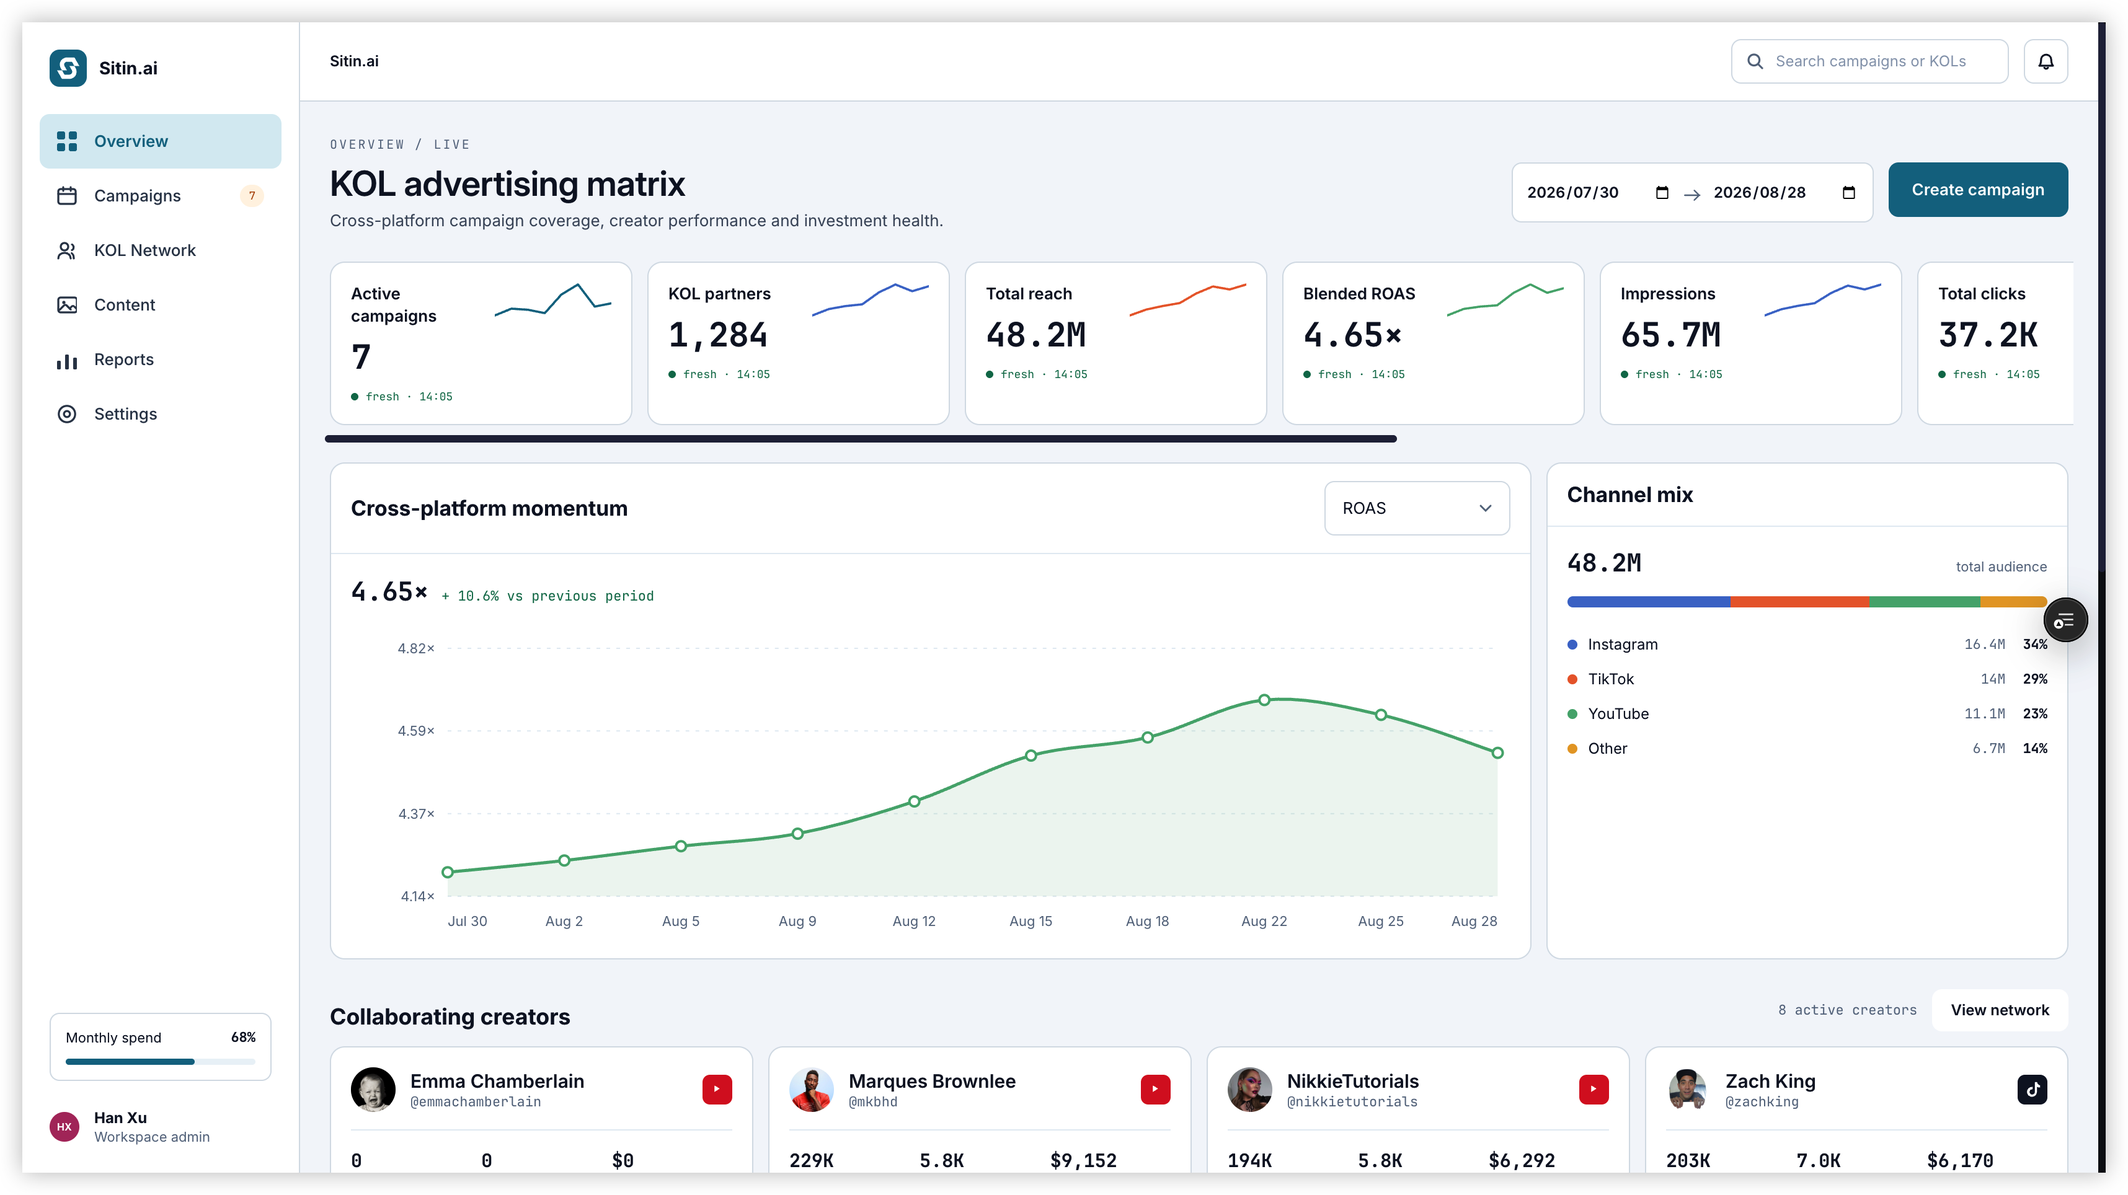
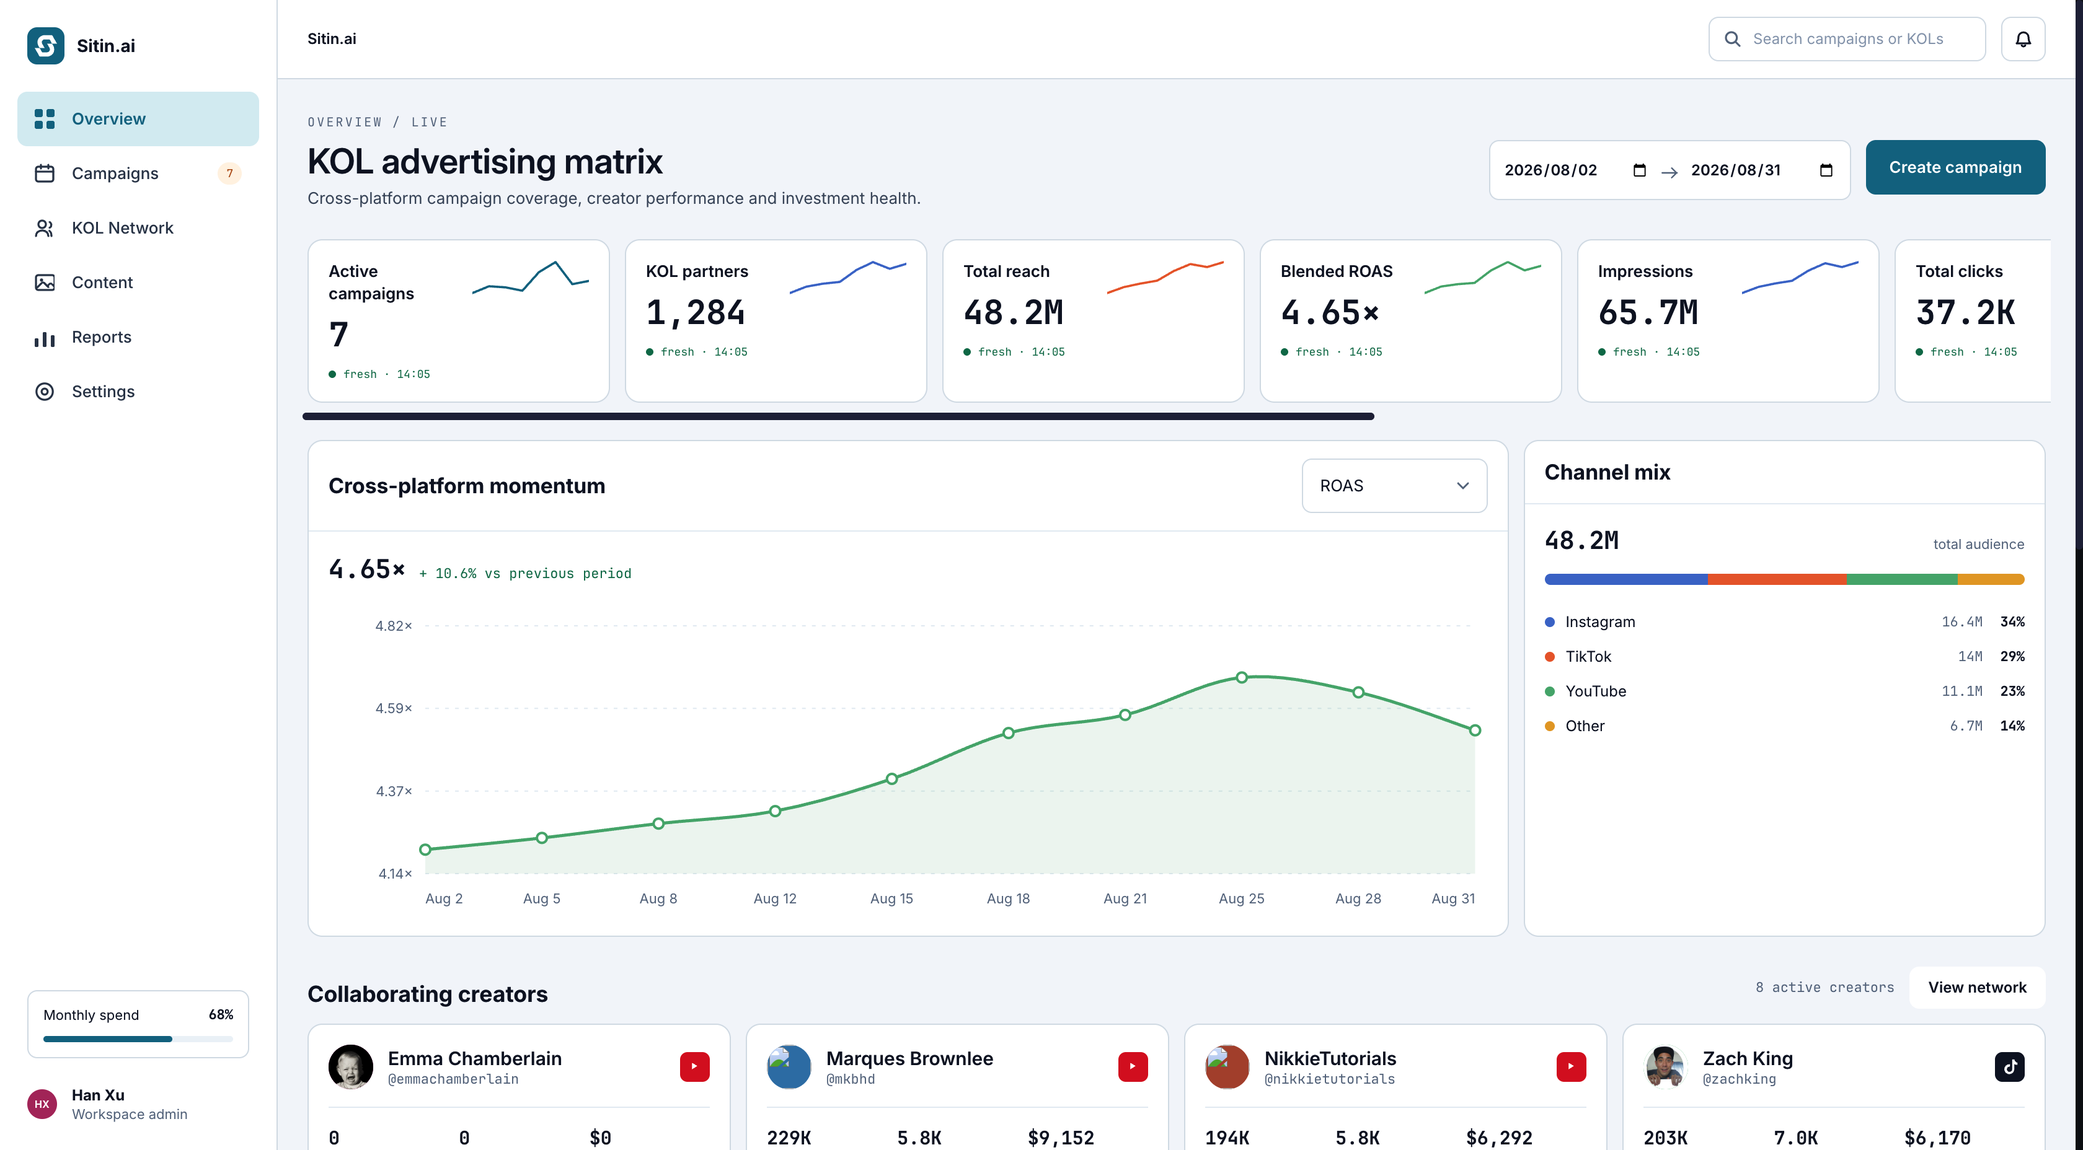
Update creator screens and full-height sections

diff --git a/index.html b/index.html
@@ -58,14 +58,19 @@
     @media (max-width:760px){.topbar{width:calc(100% - 40px)}.hero{height:100svh;height:100dvh;min-height:600px;padding-top:120px}.hero-video{object-position:center center}}
     @media (prefers-reduced-motion:reduce){html{scroll-behavior:auto}.hero-video{display:none}.hero{background:#eef3f1}}
     /* Product ecosystem showcase: one shared visual for the mobile and business surfaces. */
-    .ecosystem-showcase{display:grid;grid-template-columns:minmax(0,1.2fr) minmax(360px,.8fr);gap:76px;align-items:center;margin-top:58px}
-    .ecosystem-visual{display:grid;grid-template-columns:minmax(0,1fr) minmax(158px,.28fr);gap:20px;align-items:end;min-height:0;position:relative}
-    .dashboard-frame{position:relative;min-width:0;overflow:hidden;background:transparent;border:1px solid var(--line);border-radius:8px;box-shadow:0 18px 34px rgba(15,23,42,.14);z-index:1}
-    .dashboard-frame img{display:block;width:100%;height:auto}
-    .mobile-frame{position:relative;min-width:0;width:100%;padding:0;overflow:hidden;background:transparent;border:1px solid var(--line);border-radius:8px;box-shadow:0 18px 34px rgba(15,23,42,.14);z-index:1}
-    .mobile-frame:before{display:none}
-    .mobile-frame img{display:block;width:100%;height:auto;border-radius:7px}
-    .ecosystem-copy{align-self:stretch;display:flex;flex-direction:column;justify-content:center}
+    #ecosystem{min-height:100svh;min-height:100dvh;display:flex;align-items:stretch;padding:0}
+    #ecosystem>.shell{width:100%;max-width:none}
+    .ecosystem-showcase{display:grid;grid-template-columns:50vw 50vw;gap:0;align-items:stretch;width:100%;min-height:100svh;min-height:100dvh;margin-top:0}
+    .ecosystem-visual{position:relative;display:flex;align-items:center;justify-content:center;gap:clamp(12px,1.8vw,24px);min-height:0;height:100%;padding:24px;overflow:visible}
+    .dashboard-frame{position:relative;flex:1 1 auto;width:auto;min-width:0;max-width:500px;aspect-ratio:1.65;overflow:visible;background:#e8eef2;border:1px solid #cbd7df;border-radius:11px;padding:25px 7px 7px;box-shadow:0 18px 34px rgba(15,23,42,.16);z-index:1}
+    .dashboard-frame:before{content:"";position:absolute;left:12px;top:10px;width:6px;height:6px;border-radius:50%;background:#9eacb8;box-shadow:12px 0 0 #b4c0c9,24px 0 0 #c5cfd6}
+    .dashboard-frame:after{content:"";position:absolute;left:50%;bottom:-18px;width:88px;height:18px;transform:translateX(-50%);background:#c5d0d8;border-radius:0 0 8px 8px;box-shadow:0 5px 0 -1px #b8c5ce;z-index:-1}
+    .dashboard-frame img{position:relative;display:block;width:100%;height:auto;transform:none;opacity:.7;border-radius:4px}
+    .mobile-frame{position:relative;flex:0 0 clamp(145px,14vw,220px);width:auto;height:auto;aspect-ratio:1170/2532;padding:7px;overflow:visible;background:#0f172a;border:6px solid #0f172a;border-radius:25px;box-shadow:0 22px 42px rgba(15,23,42,.24);z-index:2}
+    .mobile-frame:before{content:"";position:absolute;left:50%;top:-1px;width:38%;height:13px;transform:translateX(-50%);border-radius:0 0 9px 9px;background:#0f172a;z-index:2}
+    .mobile-frame:after{content:"";position:absolute;right:-10px;top:24%;width:4px;height:44px;border-radius:0 4px 4px 0;background:#0f172a}
+    .mobile-frame img{display:block;width:100%;height:100%;border-radius:16px}
+    .ecosystem-copy{align-self:stretch;display:flex;flex-direction:column;justify-content:center;padding:clamp(48px,8vw,112px)}
     .ecosystem-copy h2{max-width:530px}
     .ecosystem-copy .section-lead{max-width:470px}
     .product-stack{margin-top:31px;border-top:1px solid var(--line)}
@@ -73,8 +78,25 @@
     .product-row .row-num{font-family:var(--mono);font-size:10px;color:var(--acid-dark);padding-top:4px}
     .product-row h3{margin:0;font-size:17px;line-height:1.2;letter-spacing:0;font-weight:750}
     .product-row p{margin:7px 0 0;color:var(--muted);font-size:12px;line-height:1.52}
-    @media (max-width:1100px){.ecosystem-showcase{gap:44px;grid-template-columns:minmax(0,1.08fr) minmax(320px,.92fr)}.ecosystem-visual{grid-template-columns:minmax(0,1fr) minmax(135px,.28fr);gap:14px}.dashboard-frame,.mobile-frame{border-radius:8px}.mobile-frame img{border-radius:7px}}
-    @media (max-width:760px){.ecosystem-showcase{grid-template-columns:1fr;gap:42px;margin-top:39px}.ecosystem-visual{grid-template-columns:minmax(0,1fr) minmax(105px,.31fr);gap:10px}.dashboard-frame,.mobile-frame{border-radius:8px}.mobile-frame img{border-radius:7px}.product-stack{margin-top:26px}.product-row{grid-template-columns:33px 1fr;gap:12px;padding:16px 0}.product-row h3{font-size:16px}.product-row p{font-size:12px}}
+    #sitin{min-height:100svh;min-height:100dvh;display:flex;align-items:center;padding-top:clamp(64px,8vh,96px);padding-bottom:clamp(64px,8vh,96px)}
+    #sitin .product-section{grid-template-columns:.72fr 1.28fr;gap:70px}
+    .identity-feature{display:flex;align-items:center;justify-content:center;gap:clamp(14px,2vw,26px);height:clamp(460px,76vh,600px);background:transparent;overflow:visible}
+    .identity-phone{position:relative;height:100%;aspect-ratio:1170/2532;padding:7px;background:#0f172a;border:6px solid #0f172a;border-radius:27px;box-shadow:0 22px 42px rgba(15,23,42,.18);overflow:visible}
+    .identity-phone:before{content:"";position:absolute;left:50%;top:-1px;width:38%;height:13px;transform:translateX(-50%);border-radius:0 0 9px 9px;background:#0f172a;z-index:2}
+    .identity-phone:after{content:"";position:absolute;right:-10px;top:24%;width:4px;height:44px;border-radius:0 4px 4px 0;background:#0f172a}
+    .identity-phone img{display:block;width:100%;height:100%;border-radius:16px}
+    @media (max-width:1100px){#ecosystem{min-height:100svh;min-height:100dvh}.ecosystem-showcase{grid-template-columns:50vw 50vw;min-height:100svh;min-height:100dvh}.ecosystem-visual{gap:12px;padding:20px}.ecosystem-copy{padding:clamp(38px,6vw,78px)}.mobile-frame{flex-basis:clamp(130px,15vw,190px)}#sitin{padding-top:78px;padding-bottom:78px}#sitin .product-section{grid-template-columns:.72fr 1.28fr;gap:45px}.identity-feature{height:clamp(420px,64vh,520px)}}
+    @media (max-width:760px){#ecosystem{min-height:0;display:block;padding:0}.ecosystem-showcase{grid-template-columns:1fr;gap:0;min-height:0}.ecosystem-visual{height:clamp(360px,100vw,520px);gap:12px;padding:20px}.ecosystem-copy{padding:78px 20px}.mobile-frame{flex-basis:31%;max-width:180px;border-radius:22px}.mobile-frame img{border-radius:14px}.product-stack{margin-top:26px}.product-row{grid-template-columns:33px 1fr;gap:12px;padding:16px 0}.product-row h3{font-size:16px}.product-row p{font-size:12px}#sitin{min-height:0;display:block;padding-top:78px;padding-bottom:78px}#sitin .product-section{grid-template-columns:1fr;gap:34px}.identity-feature{order:2;height:auto;display:grid;grid-template-columns:1fr 1fr;align-items:start;gap:12px}.identity-phone{height:auto;width:100%;padding:5px;border-width:5px;border-radius:21px}.identity-phone:before{height:9px}.identity-phone:after{right:-8px;width:3px;height:32px}.identity-phone img{border-radius:13px}}
+    /* Creator proof screens: show the earning flow at full viewport height. */
+    #creator{min-height:100svh;min-height:100dvh;display:flex;align-items:center;padding-top:clamp(64px,8vh,96px);padding-bottom:clamp(64px,8vh,96px)}
+    #creator .product-section{width:100%;grid-template-columns:1.17fr .83fr;gap:70px}
+    .creator-feature{display:flex;align-items:center;justify-content:center;gap:clamp(14px,2vw,26px);height:clamp(460px,76vh,600px);background:transparent;overflow:visible}
+    .creator-phone{position:relative;height:100%;aspect-ratio:1170/2532;padding:7px;background:#0f172a;border:6px solid #0f172a;border-radius:27px;box-shadow:0 22px 42px rgba(15,23,42,.18);overflow:visible}
+    .creator-phone:before{content:"";position:absolute;left:50%;top:-1px;width:38%;height:13px;transform:translateX(-50%);border-radius:0 0 9px 9px;background:#0f172a;z-index:2}
+    .creator-phone:after{content:"";position:absolute;right:-10px;top:24%;width:4px;height:44px;border-radius:0 4px 4px 0;background:#0f172a}
+    .creator-phone img{display:block;width:100%;height:100%;border-radius:16px}
+    @media (max-width:1100px){#creator{padding-top:78px;padding-bottom:78px}#creator .product-section{grid-template-columns:1.17fr .83fr;gap:45px}.creator-feature{height:clamp(420px,64vh,520px)}}
+    @media (max-width:760px){#creator{min-height:0;display:block;padding-top:78px;padding-bottom:78px}#creator .product-section{grid-template-columns:1fr;gap:34px}#creator .product-copy{order:1}#creator .creator-feature{order:2;height:auto;display:grid;grid-template-columns:1fr 1fr;align-items:start;gap:12px}.creator-phone{height:auto;width:100%;padding:5px;border-width:5px;border-radius:21px}.creator-phone:before{height:9px}.creator-phone:after{right:-8px;width:3px;height:32px}.creator-phone img{border-radius:13px}}
     /* Brand-first hero: let the footage carry the visual story and keep the copy crisp. */
     .hero{height:100svh;height:100dvh;min-height:600px;background:#05070a}
     .hero-video-overlay{background:rgba(0,0,0,.7)}
@@ -100,9 +122,9 @@
     <main id="top">
       <section class="hero"><video class="hero-video" autoplay muted loop playsinline preload="metadata" poster="hero-video-poster.png" aria-hidden="true"><source src="hero-video.mp4" type="video/mp4"></video><div class="hero-video-overlay" aria-hidden="true"></div><div class="hero-content shell"><div class="eyebrow">Creator ads, without the busywork</div><h1>Click To Start <strong>Creator Growth</strong></h1><p class="hero-copy">Sitin.ai turns creator discovery, permissions, publishing and payouts into one simple flow.</p><div class="actions"><a class="button primary" href="#business">Start a campaign <span>↗</span></a><a class="button secondary" href="#creator">Monetize your audience</a></div></div></section>
       <section class="section ecosystem" id="ecosystem"><div class="shell"><div class="ecosystem-showcase"><div class="ecosystem-visual" aria-label="Sitin.ai mobile app and Sitin.ai Business dashboard"><div class="dashboard-frame"><img src="sitin-ai-business-dashboard-source.png" alt="Sitin.ai Business KOL advertising matrix dashboard"></div><div class="mobile-frame"><img src="sitin-ai-mobile-app.png" alt="Sitin.ai mobile app social account connection and earning screen"></div></div><div class="ecosystem-copy"><h2>Three products.<br>One growth loop.</h2><p class="section-lead">Every signal has a next step: connect the right account, match the right opportunity and move the right campaign forward.</p><div class="product-stack" id="products"><article class="product-row"><span class="row-num">01</span><div><h3>Sitin.ai</h3><p>The social identity layer. Dating users choose to connect their social accounts and turn real signals into commercial opportunity.</p></div></article><article class="product-row"><span class="row-num">02</span><div><h3>Sitin.ai Creator</h3><p>For creators beyond Dating. Connect the accounts you choose, discover matched deals and control how work gets published.</p></div></article><article class="product-row"><span class="row-num">03</span><div><h3>Sitin.ai Business</h3><p>For brands. Turn a brief into matched creators, live campaigns and measurable growth at scale.</p></div></article></div></div></div></div></section>
-      <section class="section" id="sitin"><div class="shell product-section"><div class="product-copy"><div class="section-kicker">01 / Sitin.ai</div><h2>Where consented social identity begins.</h2><p class="section-lead">Sitin.ai is a Dating product where people build real connections and can choose to connect their social accounts. Their control stays visible at every step.</p><a class="link-arrow" href="#trust">See how permissions work&nbsp; →</a></div><div class="product-ui"><span class="ui-label">SITIN.AI / IDENTITY</span><div class="dating-card"><div class="photo"></div><div class="profile"><div class="profile-title"><strong>Meet Maya, 28</strong><span>New here</span></div><p>Creative director · Brooklyn · Coffee before meetings</p><div class="connect-row"><small>Connect a social account</small><span class="connect-btn">Choose access</span></div></div></div></div></div></section>
-      <section class="section ecosystem" id="creator"><div class="shell product-section reverse"><div class="product-copy"><div class="section-kicker">02 / Sitin.ai Creator</div><h2>Your audience can become your business.</h2><p class="section-lead">Creators connect the accounts they choose, see opportunities that fit their voice and decide how each collaboration is published. Manual, assisted or limited automation—always by choice.</p><a class="link-arrow" href="#trust">Explore the Creator experience&nbsp; →</a></div><div class="product-ui"><span class="ui-label">SITIN.AI CREATOR / HOME</span><div class="creator-ui"><div class="creator-profile"><div class="profile-head"><div class="profile-avatar"></div><div><strong>Alex Morgan</strong><span>Creator profile · Connected</span></div></div><h4>Audience signals</h4><div class="tag-row"><span class="tag">Skincare</span><span class="tag">Wellness</span><span class="tag">US · 25–34</span></div><div class="earnings"><span>Available balance</span><b>$2,840</b></div></div><div class="opportunities"><small>OPPORTUNITIES FOR YOU</small><h4>3 new matches</h4><div class="op"><span>Summer skincare</span><b>$680</b></div><div class="op"><span>Travel essentials</span><b>$450</b></div><div class="op"><span>Everyday wellness</span><b>$320</b></div><div class="permission">Publishing mode: confirm before publish</div></div></div></div></div></section>
-      <section class="section" id="business"><div class="shell product-section"><div class="product-copy"><div class="section-kicker">03 / Sitin.ai Business</div><h2>From brief to activated growth.</h2><p class="section-lead">Sitin.ai Business helps brands run Creator Partnership Ads at scale—from matching and outreach to permissions, publishing, amplification and repeat investment.</p><a class="link-arrow" href="#agent">See Business in action&nbsp; →</a></div><div class="product-ui dark"><span class="ui-label">SITIN.AI BUSINESS / LIVE WORKSPACE</span><div class="business-screenshot-wrap"><img class="business-screenshot" src="sitin-ai-business-dashboard.png" alt="Sitin.ai Business KOL advertising matrix dashboard"></div></div></div></section>
+      <section class="section" id="sitin"><div class="shell product-section"><div class="product-copy"><h2>Where consented social identity begins.</h2><p class="section-lead">Sitin.ai is a Dating product where people build real connections and can choose to connect their social accounts. Their control stays visible at every step.</p><a class="link-arrow" href="#trust">See how permissions work&nbsp; →</a></div><div class="identity-feature" aria-label="Sitin.ai mobile product screens"><div class="identity-phone"><img src="sitin-ai-landing.png" alt="Sitin.ai landing screen"></div><div class="identity-phone"><img src="sitin-ai-earnings.png" alt="Sitin.ai earnings screen"></div></div></div></section>
+      <section class="section ecosystem" id="creator"><div class="shell product-section reverse"><div class="creator-feature" aria-label="Sitin.ai Creator mobile product screens"><div class="creator-phone"><img src="sitin-ai-creator-landing.png" alt="Sitin.ai Creator landing screen"></div><div class="creator-phone"><img src="sitin-ai-creator-earnings.png" alt="Sitin.ai Creator earnings screen"></div></div><div class="product-copy"><h2>Your audience can become your business.</h2><p class="section-lead">Creators connect the accounts they choose, see opportunities that fit their voice and decide how each collaboration is published. Manual, assisted or limited automation—always by choice.</p><a class="link-arrow" href="#trust">Explore the Creator experience&nbsp; →</a></div></div></section>
+      <section class="section" id="business"><div class="shell product-section"><div class="product-copy"><div class="section-kicker">03 / Sitin.ai Business</div><h2>From brief to activated growth.</h2><p class="section-lead">Sitin.ai Business helps brands run Creator Partnership Ads at scale—from matching and outreach to permissions, publishing, amplification and repeat investment.</p><a class="link-arrow" href="#agent">See Business in action&nbsp; →</a></div><div class="product-ui dark"><span class="ui-label">SITIN.AI BUSINESS / LIVE WORKSPACE</span><div class="business-screenshot-wrap"><img class="business-screenshot" src="sitin-ai-business-dashboard-source.png" alt="Sitin.ai Business KOL advertising matrix dashboard"></div></div></div></section>
       <section class="section agent-section" id="agent"><div class="shell agent-layout"><div><div class="section-kicker">The intelligence layer</div><h2>An agent that moves growth forward.</h2><p class="section-lead">Growth Agent turns an outcome into a sequence of actions—while keeping human approval, creator choice and platform rules in the loop.</p><div class="agent-list"><div class="agent-step"><b>SENSE</b><p>Understand audience, content, performance and campaign signals.</p></div><div class="agent-step"><b>PLAN</b><p>Recommend creators, briefs, budgets and permission paths.</p></div><div class="agent-step"><b>ACT + LEARN</b><p>Run the work, measure the outcome and improve the next round.</p></div></div></div><div class="agent-loop"><div class="loop-ring r1"></div><div class="loop-ring r2"></div><div class="loop-center">GROWTH<br>AGENT</div><div class="loop-node n1">Sense</div><div class="loop-node n2">Plan</div><div class="loop-node n3">Measure</div><div class="loop-node n4">Learn</div></div></div></section>
       <section class="section trust" id="trust"><div class="shell trust-layout"><div><div class="section-kicker">Trust by design</div><h2>Your account.<br>Your control.</h2><p class="section-lead">Sitin.ai makes permissions understandable and reversible. People can participate in commercial opportunities without giving up control of their social accounts.</p><a class="link-arrow" href="#company">Read our trust principles&nbsp; →</a></div><div class="trust-panel"><h3>Permission levels</h3><div class="permission-row"><span class="permission-icon">○</span><div><strong>Public profile</strong><small>Use only what is already public.</small></div><em>L0</em></div><div class="permission-row"><span class="permission-icon">◌</span><div><strong>Read-only insights</strong><small>Share performance signals, never publishing access.</small></div><em>L1</em></div><div class="permission-row"><span class="permission-icon">✓</span><div><strong>Confirm before publish</strong><small>Approve each partnership action.</small></div><em>L2</em></div><div class="permission-row"><span class="permission-icon">↗</span><div><strong>Limited automation</strong><small>Define the scope, then let the agent operate.</small></div><em>L3</em></div></div></div></section>
       <section class="final-cta" id="company"><div class="shell"><div class="cta-panel"><div class="section-kicker">The next growth loop is yours</div><h2>Build partnerships<br>that keep moving.</h2><p>See how Sitin.ai Business can turn your next creator brief into a measurable growth system.</p><a class="button primary" href="#business">Explore Sitin.ai Business <span>↗</span></a></div></div></section>
